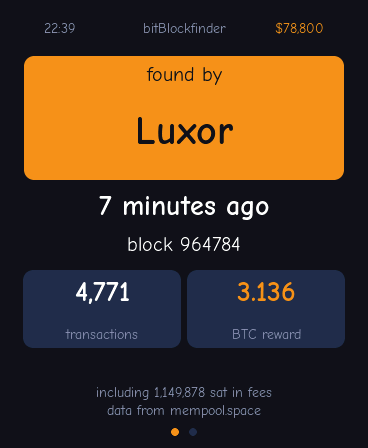
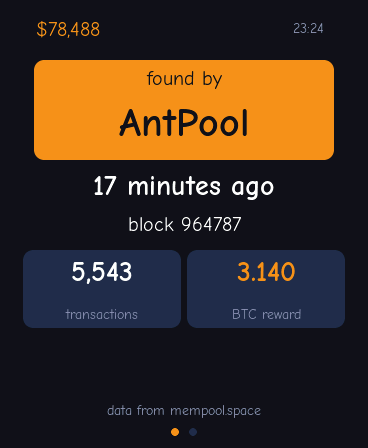
English README, MIT license, page 1 header rework
README translated to English, aimed at anyone who lands on the repo on
GitHub. Added an MIT LICENSE for the code (attribution required, the font
keeps its own OFL license in main/schrift/).

Page 1 header: price moved to the top left in a bigger font, clock moved
to the top right. The orange pool container is smaller now that the price
carries more visual weight, so the pool name gets less width to work
with and drops to a smaller font sooner for long names. Removed the fees
line at the bottom -- at a few hundred sat it was never legible at that
size, and the reward tile already carries the number that matters. The
mempool.space source line stays.

diff --git a/main/ui.c b/main/ui.c
@@ -47,7 +47,7 @@ LV_FONT_DECLARE(comic_40);
 #define HEAD_INSET  44
 
 /* Breite, die dem Poolnamen auf der orangen Flaeche zur Verfuegung steht. */
-#define POOL_W      300
+#define POOL_W      280
 
 /* Zeilen der zweiten Seite. */
 #define ROWS        15
@@ -55,7 +55,7 @@ LV_FONT_DECLARE(comic_40);
 
 /* --- Seite 1 --- */
 static lv_obj_t *s_clock, *s_price, *s_band, *s_band_cap, *s_pool;
-static lv_obj_t *s_age, *s_height, *s_footer, *s_status;
+static lv_obj_t *s_age, *s_height, *s_status;
 static lv_obj_t *s_tile_a, *s_tile_a_val, *s_tile_a_cap;
 static lv_obj_t *s_tile_b, *s_tile_b_val, *s_tile_b_cap;
 
@@ -143,24 +143,22 @@ static lv_obj_t *make_tile(lv_obj_t *parent, lv_obj_t **val, lv_obj_t **cap)
 
 static void build_page_block(lv_obj_t *p)
 {
-    /* Kopfzeile wie bei mempool.space: links die Uhr, rechts der Kurs. */
+    /* Preis links, groesser als der Rest der Kopfzeile -- er ist die
+     * zweite Zahl, die auf einen Blick zaehlt. Uhr rechts, klein. */
+    s_price = label(p, &comic_20, COL_ORANGE);
+    lv_label_set_text(s_price, "");
+    lv_obj_align(s_price, LV_ALIGN_TOP_LEFT, HEAD_INSET - 8, HEAD_Y - 3);
+
     s_clock = label(p, &comic_14, COL_DIM);
     lv_label_set_text(s_clock, "--:--");
-    lv_obj_align(s_clock, LV_ALIGN_TOP_LEFT, HEAD_INSET, HEAD_Y);
-
-    lv_obj_t *t = label(p, &comic_14, COL_DIM);
-    lv_label_set_text(t, "bitBlockfinder");
-    lv_obj_align(t, LV_ALIGN_TOP_MID, 0, HEAD_Y);
-
-    s_price = label(p, &comic_14, COL_ORANGE);
-    lv_label_set_text(s_price, "");
-    lv_obj_align(s_price, LV_ALIGN_TOP_RIGHT, -HEAD_INSET, HEAD_Y);
+    lv_obj_align(s_clock, LV_ALIGN_TOP_RIGHT, -HEAD_INSET, HEAD_Y);
 
     /* Die orange Flaeche traegt die eine Antwort, um die es auf dieser
-     * Seite geht. Alles andere darunter begruendet sie nur. */
+     * Seite geht. Alles andere darunter begruendet sie nur. Kleiner als
+     * zuvor, damit der Preis oben mehr Gewicht bekommt. */
     s_band = lv_obj_create(p);
-    lv_obj_set_size(s_band, 320, 124);
-    lv_obj_align(s_band, LV_ALIGN_TOP_MID, 0, 56);
+    lv_obj_set_size(s_band, 300, 100);
+    lv_obj_align(s_band, LV_ALIGN_TOP_MID, 0, 60);
     lv_obj_set_style_bg_color(s_band, COL_ORANGE, 0);
     lv_obj_set_style_border_width(s_band, 0, 0);
     lv_obj_set_style_radius(s_band, 10, 0);
@@ -185,20 +183,16 @@ static void build_page_block(lv_obj_t *p)
 
     s_age = label(p, &comic_28, COL_TEXT);
     lv_label_set_text(s_age, "");
-    lv_obj_align(s_age, LV_ALIGN_TOP_MID, 0, 192);
+    lv_obj_align(s_age, LV_ALIGN_TOP_MID, 0, 172);
 
     s_height = label(p, &comic_20, COL_TEXT);
     lv_label_set_text(s_height, "");
-    lv_obj_align(s_height, LV_ALIGN_TOP_MID, 0, 234);
+    lv_obj_align(s_height, LV_ALIGN_TOP_MID, 0, 214);
 
     s_tile_a = make_tile(p, &s_tile_a_val, &s_tile_a_cap);
     s_tile_b = make_tile(p, &s_tile_b_val, &s_tile_b_cap);
-    lv_obj_align(s_tile_a, LV_ALIGN_TOP_MID, -82, 270);
-    lv_obj_align(s_tile_b, LV_ALIGN_TOP_MID,  82, 270);
-
-    s_footer = label(p, &comic_14, COL_DIM);
-    lv_label_set_text(s_footer, "");
-    lv_obj_align(s_footer, LV_ALIGN_BOTTOM_MID, 0, -48);
+    lv_obj_align(s_tile_a, LV_ALIGN_TOP_MID, -82, 250);
+    lv_obj_align(s_tile_b, LV_ALIGN_TOP_MID,  82, 250);
 
     s_status = label(p, &comic_14, COL_DIM);
     lv_label_set_text(s_status, "starting ...");
@@ -345,7 +339,6 @@ static void update_block(const ui_state_t *st)
         lv_label_set_text(s_pool, "--");
         lv_label_set_text(s_age, "");
         lv_label_set_text(s_height, "");
-        lv_label_set_text(s_footer, "");
         lv_obj_add_flag(s_tile_a, LV_OBJ_FLAG_HIDDEN);
         lv_obj_add_flag(s_tile_b, LV_OBJ_FLAG_HIDDEN);
         return;
@@ -377,17 +370,15 @@ static void update_block(const ui_state_t *st)
     lv_label_set_text(s_tile_a_cap, "transactions");
     lv_obj_clear_flag(s_tile_a, LV_OBJ_FLAG_HIDDEN);
 
-    /* Die Belohnung sind neue Muenzen plus Gebuehren. Drei Nachkommastellen
-     * reichen: Die Halbierung auf 3,125 BTC ist damit zu sehen, das
-     * Rauschen der Gebuehren steht darunter in Sats. */
+    /* Drei Nachkommastellen: Die Belohnung sind neue Muenzen plus
+     * Gebuehren, die Halbierung auf 3,125 BTC ist damit zu sehen. Die
+     * Gebuehren selbst stehen nirgends einzeln -- bei ueblichen paar
+     * hundert Sat waeren sie ohnehin nur eine Fussnote im Kleingedruckten. */
     snprintf(zahl, sizeof(zahl), "%.3f", (double)b->reward / 1e8);
     lv_label_set_text(s_tile_b_val, zahl);
     lv_obj_set_style_text_color(s_tile_b_val, COL_ORANGE, 0);
     lv_label_set_text(s_tile_b_cap, "BTC reward");
     lv_obj_clear_flag(s_tile_b, LV_OBJ_FLAG_HIDDEN);
-
-    gruppiert(zahl, sizeof(zahl), (long)b->fees);
-    lv_label_set_text_fmt(s_footer, "including %s sat in fees", zahl);
 }
 
 /* Eine Zeile der zweiten Seite setzen. */

diff --git a/README.md b/README.md
@@ -1,38 +1,37 @@
 # bitBlockfinder
 
-Zeigt auf einem **Waveshare ESP32-S3-Touch-AMOLED-1.8**, wer den aktuellen
-Bitcoin-Block gefunden hat und wie lange das her ist.
+Shows on a **Waveshare ESP32-S3-Touch-AMOLED-1.8** who found the current
+Bitcoin block and how long ago that was.
 
 <p>
-  <img src="doc/block.png" width="270" alt="Seite 1: gefundener Block">
-  <img src="doc/network.png" width="270" alt="Seite 2: Netz und Gerät">
+  <img src="doc/block.png" width="270" alt="Page 1: the block that was found">
+  <img src="doc/network.png" width="270" alt="Page 2: network and device">
 </p>
 
-Zwei Seiten, gewischt wird mit dem Finger:
+Two pages, swipe with your finger:
 
-1. **Block** — der Pool auf orangem Grund, das Alter des Blocks, die
-   Blockhöhe, Transaktionen, Belohnung und Gebühren. Oben rechts der
-   BTC-Kurs. Die Altersangabe wird orange, wenn es über zwanzig Minuten
-   her ist.
-2. **Netz und Gerät** — Blockzeit, Hashrate, Schwierigkeitsanpassung,
-   Gebührenempfehlung, Mempool, Kurs, die drei größten Pools der letzten
-   24 Stunden, dazu WLAN, Laufzeit und Alter des letzten Abrufs.
+1. **Block** — the pool on an orange field, the block's age, its height,
+   transactions and reward. Top left the BTC price, top right the clock.
+   The age turns orange once it's older than twenty minutes.
+2. **Network and device** — block time, hashrate, difficulty adjustment,
+   fee estimate, mempool, price, the three biggest pools of the last
+   24 hours, plus WiFi, uptime and the age of the last update.
 
-Der obere der beiden Knöpfe schaltet die Helligkeit in drei Stufen durch.
-Nach 30 Sekunden ohne Berührung dimmt das Display, ganz aus geht es nie.
+The upper of the two buttons cycles brightness through three steps.
+After 30 seconds without touch the display dims; it never turns fully off.
 
-## Was man braucht
+## What you need
 
-* Waveshare ESP32-S3-Touch-AMOLED-1.8 (16 MB Flash, 8 MB PSRAM)
-* USB-C-auf-USB-C-**Datenkabel** — ein reines Ladekabel reicht nicht
-* WLAN im 2,4-GHz-Band
-* ESP-IDF 5.5 oder neuer
+* Waveshare ESP32-S3-Touch-AMOLED-1.8 (16 MB flash, 8 MB PSRAM)
+* USB-C-to-USB-C **data cable** — a charge-only cable won't work
+* WiFi on the 2.4 GHz band
+* ESP-IDF 5.5 or newer
 
-Kein Konto, kein API-Schlüssel, keine eigene Node.
+No account, no API key, no node of your own.
 
 ## Installation
 
-**1. ESP-IDF einrichten** — einmalig, dauert ein paar Minuten:
+**1. Set up ESP-IDF** — one time, takes a few minutes:
 
 ```bash
 git clone -b v5.5.5 --depth 1 --recursive https://github.com/espressif/esp-idf.git ~/esp/esp-idf
@@ -42,7 +41,7 @@ git clone -b v5.5.5 --depth 1 --recursive https://github.com/espressif/esp-idf.g
 cd ~/esp/esp-idf && ./install.sh esp32s3
 ```
 
-**2. Repo holen und WLAN eintragen:**
+**2. Get this repo and set your WiFi:**
 
 ```bash
 git clone https://github.com/thisdev/bitBlockfinder.git
@@ -52,77 +51,79 @@ git clone https://github.com/thisdev/bitBlockfinder.git
 cd bitBlockfinder && cp local.defaults.example local.defaults
 ```
 
-In `local.defaults` stehen SSID und Passwort. Die Datei ist in der
-`.gitignore` und bleibt lokal.
+Edit `local.defaults` with your SSID and password. The file is in
+`.gitignore` and stays local.
 
-**3. Board anschließen und flashen:**
+**3. Connect the board and flash:**
 
 ```bash
 ./flash.sh
 ```
 
-Das baut, flasht und öffnet den seriellen Monitor; beendet wird er mit
-Strg-]. `flash.sh` lädt die ESP-IDF-Umgebung selbst und sucht den Port des
-Boards. Von Hand geht es genauso mit `source activate.sh` und
-`idf.py build flash monitor`.
+Builds, flashes and opens the serial monitor; exit it with Ctrl-]. `flash.sh`
+loads the ESP-IDF environment itself and finds the board's port. By hand,
+the same thing is `source activate.sh` followed by `idf.py build flash
+monitor`.
 
-Die Abhängigkeiten (Waveshare-BSP, LVGL) zieht der Component Manager beim
-ersten Bauen von selbst.
+Dependencies (the Waveshare BSP, LVGL) are pulled in by the component
+manager on first build.
 
-## Einstellungen
+## Settings
 
-Entweder in `local.defaults` oder über `idf.py menuconfig` → *Blockfinder*:
+Either in `local.defaults` or via `idf.py menuconfig` → *Blockfinder*:
 
-| Option | Vorgabe | Bedeutung |
+| Option | Default | Meaning |
 |---|---|---|
-| `CONFIG_BF_WIFI_SSID` / `_PASS` | — | Zugangsdaten |
-| `CONFIG_BF_POLL_S` | `60` | Sekunden zwischen zwei Nachfragen |
-| `CONFIG_BF_SHOT_ENABLE` | aus | stellt `/shot` und `/page?n=` für Bildschirmaufnahmen bereit |
+| `CONFIG_BF_WIFI_SSID` / `_PASS` | — | WiFi credentials |
+| `CONFIG_BF_POLL_S` | `60` | seconds between two checks for a new block |
+| `CONFIG_BF_SHOT_ENABLE` | off | serves `/shot` and `/page?n=` for screenshots |
 
-## Woher die Daten kommen
+## Where the data comes from
 
-Von [mempool.space](https://mempool.space) über die öffentliche
-REST-Schnittstelle:
+From [mempool.space](https://mempool.space)'s public REST API:
 
-| Endpunkt | wofür | Größe | wie oft |
+| Endpoint | for | size | how often |
 |---|---|---|---|
-| `/api/blocks/tip/hash` | gibt es einen neuen Block? | 64 B | jede Minute |
-| `/api/v1/block/<hash>` | Pool, Zeit, Gebühren | ~2 KB | nur bei neuem Block |
-| `/api/v1/difficulty-adjustment` | Blockzeit, Retarget | 340 B | alle 10 min |
-| `/api/v1/fees/recommended` | Gebührenempfehlung | 74 B | alle 10 min |
-| `/api/mempool` | wartende Transaktionen | ~4 KB | alle 10 min |
-| `/api/v1/mining/pools/24h` | Pools, Hashrate | ~3 KB | alle 10 min |
-| `/api/v1/prices` | BTC-Kurs | 108 B | alle 10 min |
+| `/api/blocks/tip/hash` | is there a new block? | 64 B | every minute |
+| `/api/v1/block/<hash>` | pool, time, fees | ~2 KB | only on a new block |
+| `/api/v1/difficulty-adjustment` | block time, retarget | 340 B | every 10 min |
+| `/api/v1/fees/recommended` | fee estimate | 74 B | every 10 min |
+| `/api/mempool` | pending transactions | ~4 KB | every 10 min |
+| `/api/v1/mining/pools/24h` | pools, hashrate | ~3 KB | every 10 min |
+| `/api/v1/prices` | BTC price | 108 B | every 10 min |
 
-Der Kniff ist die erste Zeile. Statt jede Minute die Liste der letzten
-fünfzehn Blöcke zu holen — 30 KB — fragt das Gerät nach dem Hash des
-obersten Blocks und holt den Block selbst erst, wenn dieser Hash ein
-anderer ist als der bekannte.
+The trick is the first line. Instead of fetching the list of the last
+fifteen blocks every minute — 30 KB — the device asks for the hash of the
+tip block and only fetches the block itself once that hash differs from
+the one it already knows.
 
-Das **Alter rechnet das Gerät selbst** aus der Blockzeit und der NTP-Uhr
-aus. Die Minutenzahl läuft weiter, auch wenn das WLAN gerade weg ist.
-Fällt eine der Anfragen aus, behält der betroffene Wert seinen letzten
-Stand, statt auf null zu springen.
+The device computes the block's **age itself** from the block time and
+the NTP clock, so the minute count keeps advancing even while WiFi is
+down. If one of the requests fails, that value keeps its last known
+state instead of dropping to zero.
 
-## Aufbau
+## Layout
 
-| Datei | |
+| File | |
 |---|---|
-| `main/bitblockfinder.c` | Ablauf: was wann geholt und gezeichnet wird |
-| `main/chain.c` | Antworten von mempool.space auswerten |
-| `main/fetch.c` | HTTPS gegen das Wurzelzertifikat-Bundle |
-| `main/ui.c` | die beiden Seiten |
-| `main/net.c`, `clock.c` | WLAN und NTP |
-| `main/backlight.c` | Knopf und Ruheabsenkung |
-| `main/shot.c` | Bildschirmaufnahmen über HTTP, standardmäßig aus |
-| `main/schrift/` | Comic Neue als LVGL-Schriften |
+| `main/bitblockfinder.c` | flow: what gets fetched and drawn, and when |
+| `main/chain.c` | parsing mempool.space's responses |
+| `main/fetch.c` | HTTPS against the root certificate bundle |
+| `main/ui.c` | the two pages |
+| `main/net.c`, `clock.c` | WiFi and NTP |
+| `main/backlight.c` | button and idle dimming |
+| `main/shot.c` | HTTP screenshots, off by default |
+| `main/schrift/` | Comic Neue as LVGL fonts |
 
-## Schrift und Farben
+## Font, colors and license
 
-Die Schrift ist **Comic Neue** unter der SIL Open Font License; Lizenz und
-Erzeugung stehen in [`main/schrift/`](main/schrift/README.md).
+The font is **Comic Neue** under the SIL Open Font License; license and
+build steps are in [`main/schrift/`](main/schrift/README.md).
 
-Die Farben stammen aus dem Stylesheet von mempool.space: Untergrund
-`#11131f`, Karten `#272f4e`, dazu deren Akzentfarben auf der zweiten
-Seite. Die erste Seite kommt mit Weiß und dem Bitcoin-Orange `#f7931a`
-aus — sie soll gelesen und nicht entschlüsselt werden.
+Colors are taken from mempool.space's own stylesheet: background
+`#11131f`, cards `#272f4e`, plus their accent colors on the second page.
+The first page uses only white and Bitcoin orange `#f7931a` — it's meant
+to be read, not decoded.
+
+The code is [MIT-licensed](LICENSE): free to use, modify and share,
+attribution required.
